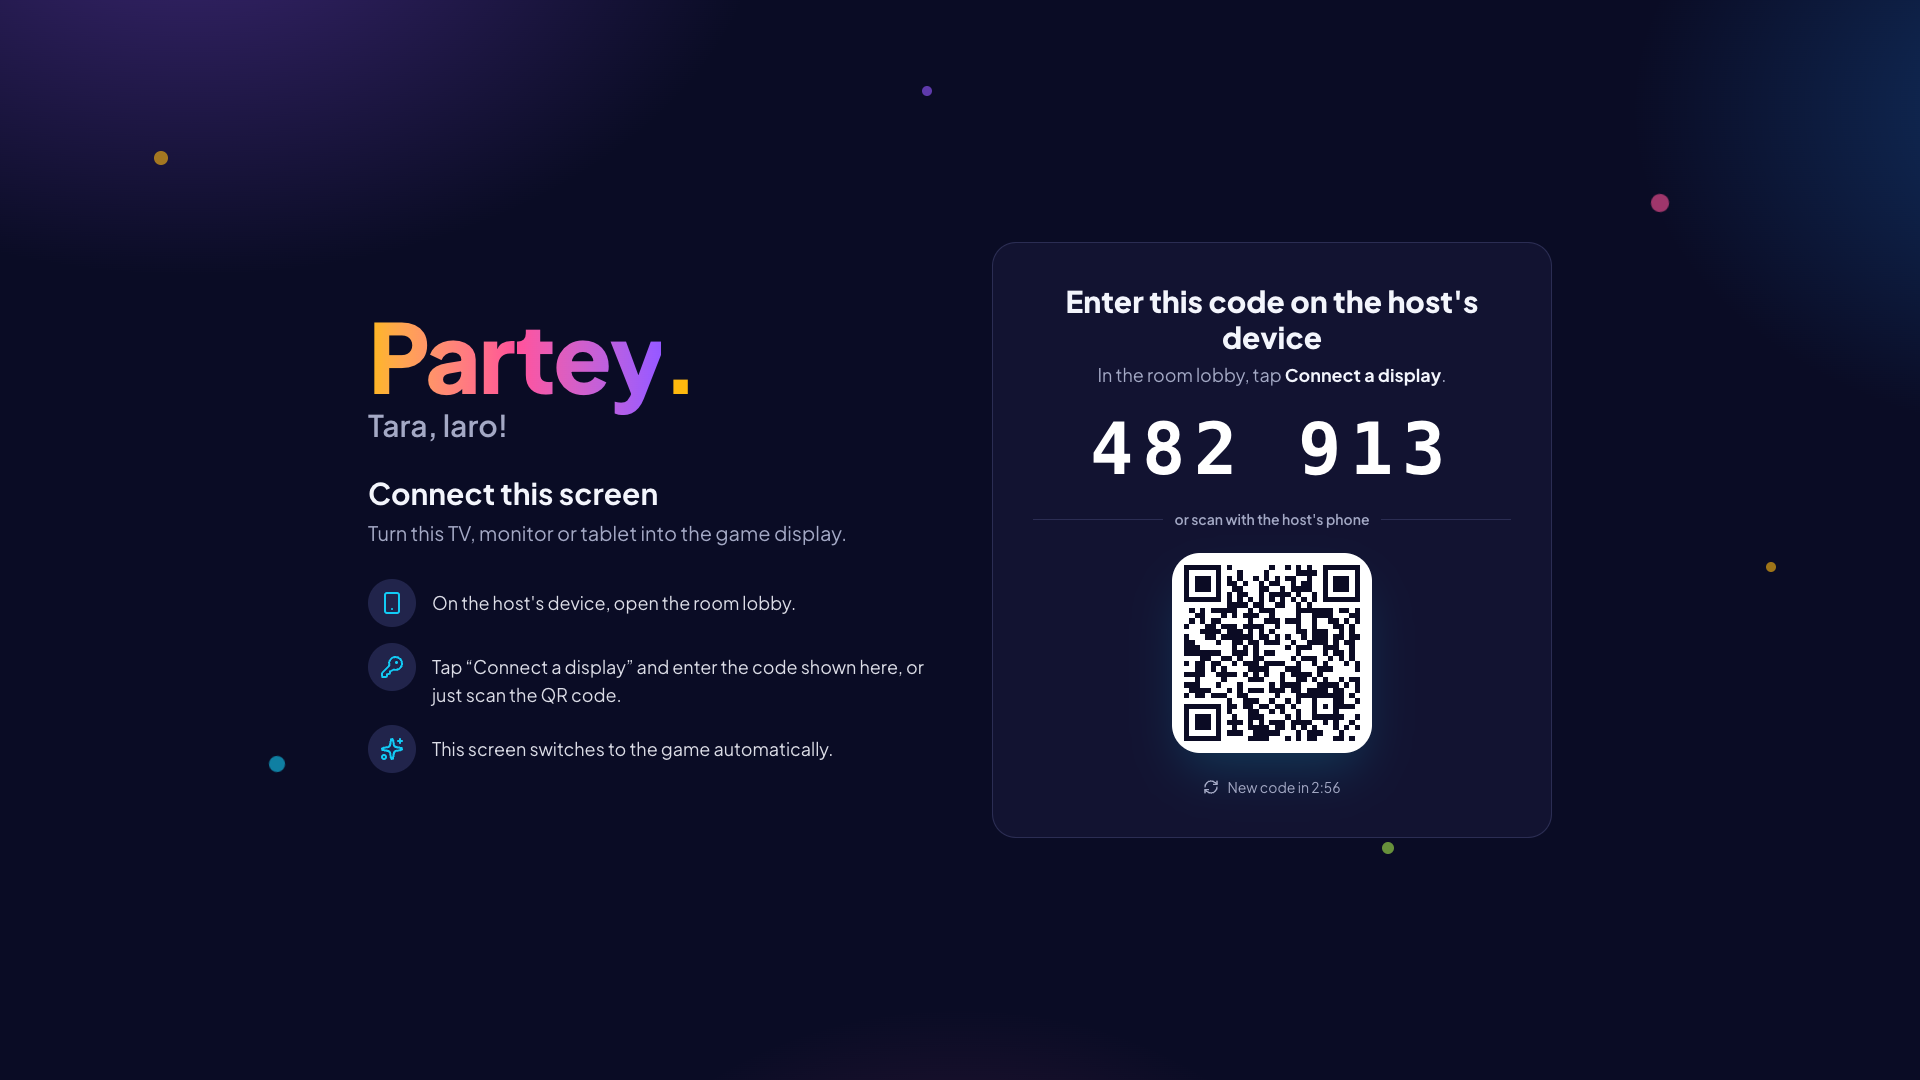
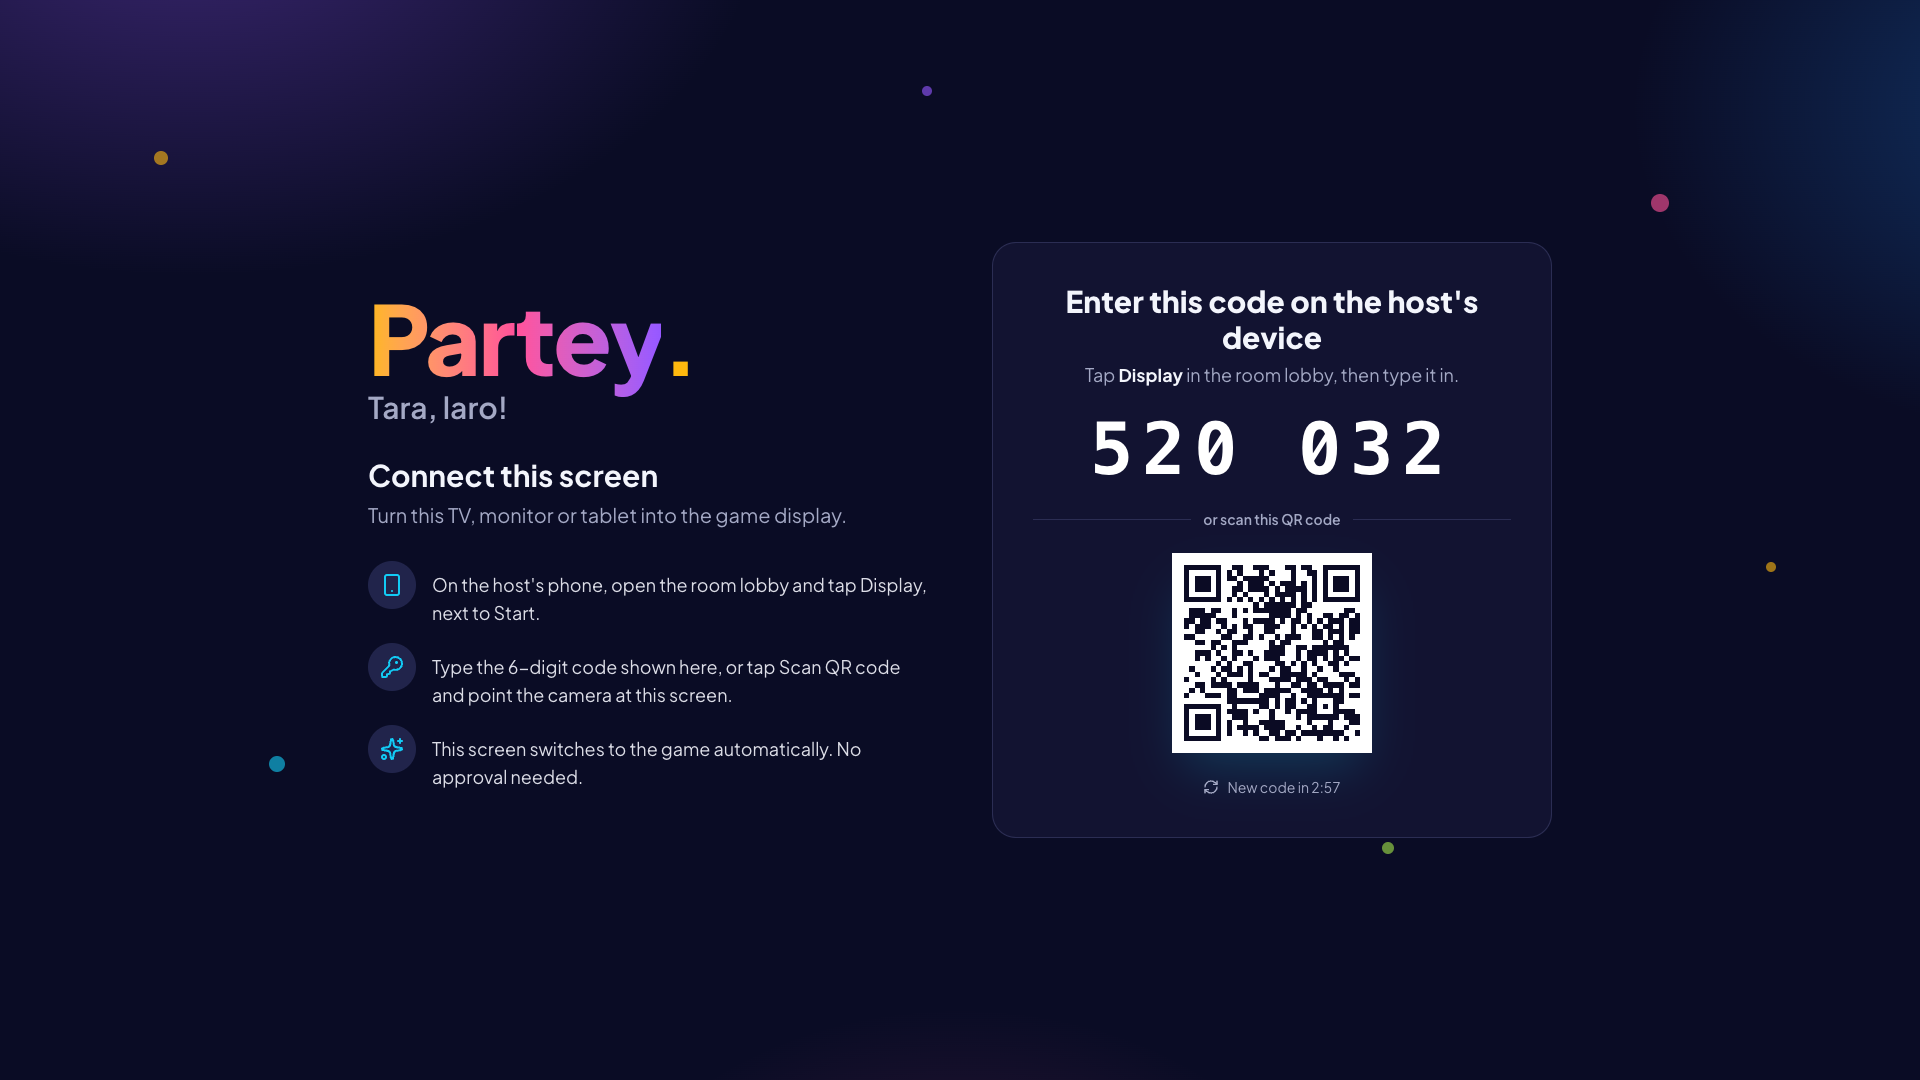
fix: update screenshots

diff --git a/src/features/display/screens/DisplayPairScreen.tsx b/src/features/display/screens/DisplayPairScreen.tsx
@@ -17,8 +17,8 @@ import { displayPairUrl } from "@/utils/urls";
 import { lastDisplayRoom, rememberDisplayRoom } from "../displaySession";
 
 const STEPS = [
-  { icon: Smartphone, text: "On the host's phone, open the room lobby and find the Display card." },
-  { icon: KeyRound, text: "Type the 6-digit code shown here, or scan the QR code with the host's phone and tap Connect." },
+  { icon: Smartphone, text: "On the host's phone, open the room lobby and tap Display, next to Start." },
+  { icon: KeyRound, text: "Type the 6-digit code shown here, or tap Scan QR code and point the camera at this screen." },
   { icon: Sparkles, text: "This screen switches to the game automatically. No approval needed." },
 ];
 
@@ -127,7 +127,7 @@ export function DisplayPairScreen() {
         <div className="space-y-1.5">
           <h2 className="text-2xl font-extrabold lg:text-3xl">Enter this code on the host's device</h2>
           <p className="text-muted-foreground lg:text-lg">
-            Type it in the <span className="font-bold text-foreground">Display</span> card in the room lobby.
+            Tap <span className="font-bold text-foreground">Display</span> in the room lobby, then type it in.
           </p>
         </div>
         <p
@@ -138,7 +138,7 @@ export function DisplayPairScreen() {
           {ticket.code.slice(0, 3)} {ticket.code.slice(3)}
         </p>
         <div className="flex w-full items-center gap-3 text-sm font-semibold text-muted-foreground" aria-hidden>
-          <span className="h-px flex-1 bg-border" /> or scan this qr code <span className="h-px flex-1 bg-border" />
+          <span className="h-px flex-1 bg-border" /> or scan this QR code <span className="h-px flex-1 bg-border" />
         </div>
         <div className="bg-white p-3 shadow-2xl shadow-sky/20">
           <QRCodeSVG
